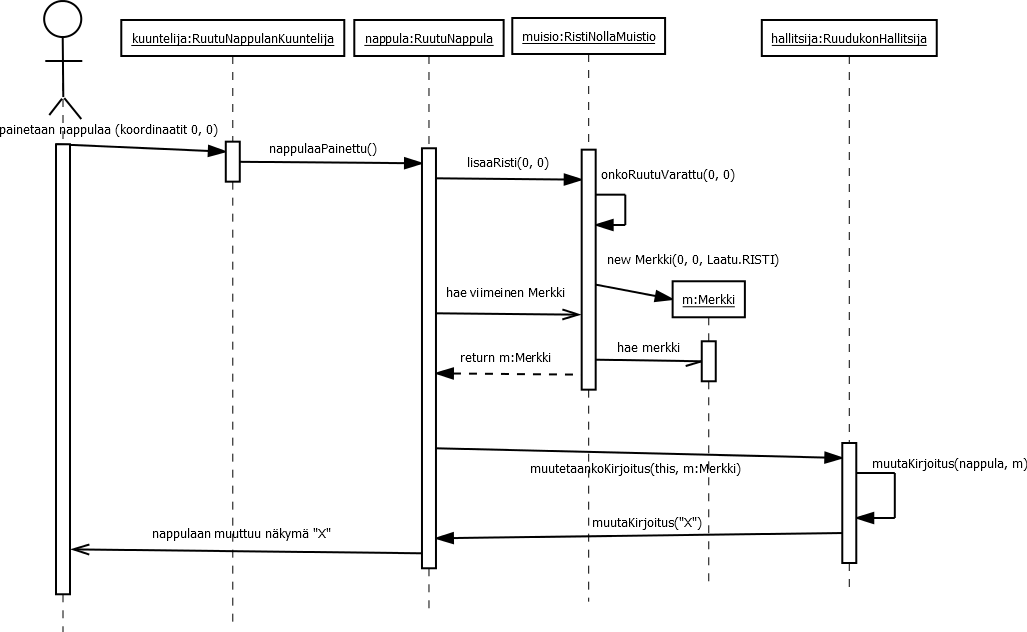
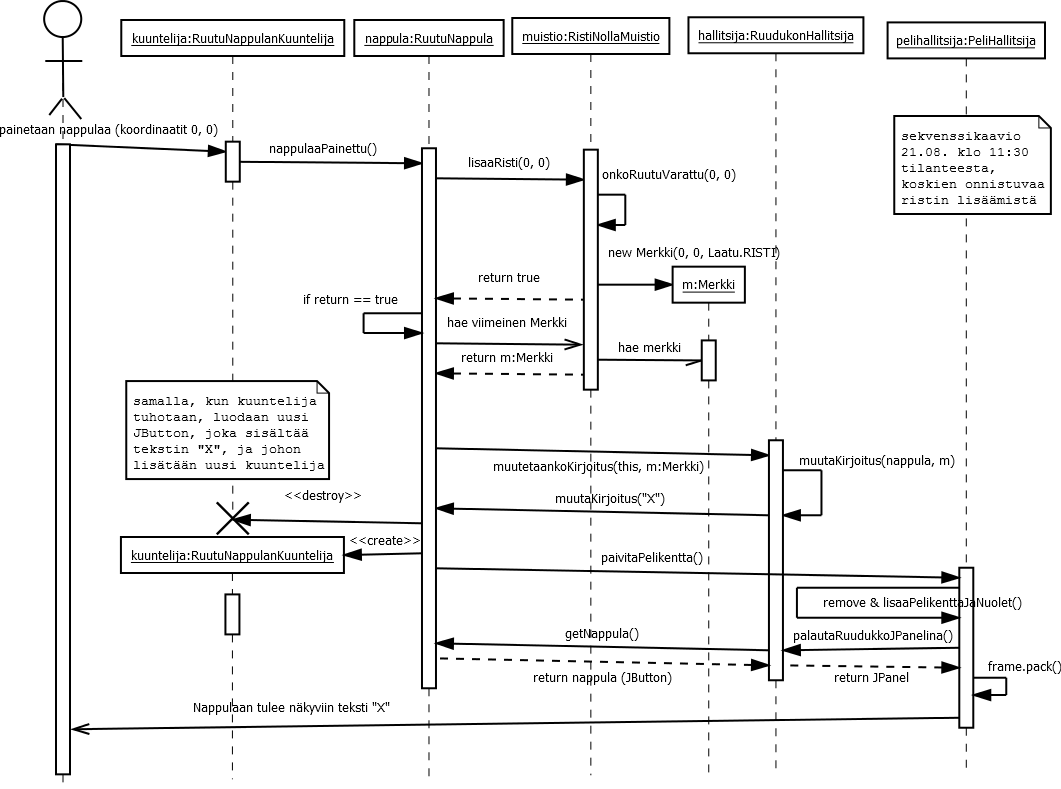
sekvenssikaavioita ja niiden inspiroimana viilausta

Changed region(s): [[0.0, 0.0, 1.0, 0.9921], [0.8413, 0.1203, 0.9971, 0.3006], [0.4362, 0.3307, 0.4985, 0.3608]]

diff --git a/Viidensuora/src/kayttoliittymat/GraafinenKayttoliittyma.java b/Viidensuora/src/kayttoliittymat/GraafinenKayttoliittyma.java
@@ -4,17 +4,6 @@
  */
 package kayttoliittymat;
 
-import kayttoliittymat.kuuntelijat.tilastot.ValikkoonNappulanKuuntelija;
-import kayttoliittymat.kuuntelijat.tilastot.JarjestaTunnusNappulanKuuntelija;
-import kayttoliittymat.kuuntelijat.tilastot.NaytaTunnuksetNappulanKuuntelija;
-import kayttoliittymat.kuuntelijat.tilastot.TunnusTilastoKategoriat;
-import kayttoliittymat.kuuntelijat.tilastot.NaytaTunnusparitNappulanKuuntelija;
-import kayttoliittymat.kuuntelijat.tilastot.YlosNappulanKuuntelija;
-import kayttoliittymat.kuuntelijat.tilastot.AlasNappulanKuuntelija;
-import kayttoliittymat.kuuntelijat.valikko.TunnusNappulanKuuntelija;
-import kayttoliittymat.kuuntelijat.valikko.TilastoNappulanKuuntelija;
-import kayttoliittymat.kuuntelijat.valikko.LopetaNappulanKuuntelija;
-import kayttoliittymat.kuuntelijat.valikko.PikapeliNappulanKuuntelija;
 import java.awt.BorderLayout;
 import java.awt.Container;
 import java.awt.Dimension;
@@ -27,6 +16,17 @@ import javax.swing.JLabel;
 import javax.swing.JOptionPane;
 import javax.swing.JPanel;
 import javax.swing.WindowConstants;
+import kayttoliittymat.kuuntelijat.tilastot.AlasNappulanKuuntelija;
+import kayttoliittymat.kuuntelijat.tilastot.JarjestaTunnusNappulanKuuntelija;
+import kayttoliittymat.kuuntelijat.tilastot.NaytaTunnuksetNappulanKuuntelija;
+import kayttoliittymat.kuuntelijat.tilastot.NaytaTunnusparitNappulanKuuntelija;
+import kayttoliittymat.kuuntelijat.tilastot.TunnusTilastoKategoriat;
+import kayttoliittymat.kuuntelijat.tilastot.ValikkoonNappulanKuuntelija;
+import kayttoliittymat.kuuntelijat.tilastot.YlosNappulanKuuntelija;
+import kayttoliittymat.kuuntelijat.valikko.LopetaNappulanKuuntelija;
+import kayttoliittymat.kuuntelijat.valikko.PikapeliNappulanKuuntelija;
+import kayttoliittymat.kuuntelijat.valikko.TilastoNappulanKuuntelija;
+import kayttoliittymat.kuuntelijat.valikko.TunnusNappulanKuuntelija;
 import kayttoliittymat.peliGraafisetToimijat.PeliHallitsija;
 import tiedostojenKasittely.VirheidenKasittelijaGraafinen;
 import tilastotJaTunnukset.Tunnus;
@@ -260,7 +260,7 @@ public class GraafinenKayttoliittyma extends Kayttoliittyma implements Runnable 
     public void menePikapeliin() {
         frame.getContentPane().removeAll();
         frame.repaint();
-        PeliHallitsija hallitsija = new PeliHallitsija(super.muistio, this.frame);
+        PeliHallitsija hallitsija = new PeliHallitsija(super.muistio, this.frame, this);
         frame.getContentPane().setLayout(new BorderLayout());
         frame.getContentPane().add(hallitsija.kaynistaPeli());
         frame.pack();

diff --git a/Viidensuora/src/kayttoliittymat/peliGraafisetToimijat/PeliHallitsija.java b/Viidensuora/src/kayttoliittymat/peliGraafisetToimijat/PeliHallitsija.java
@@ -4,15 +4,16 @@
  */
 package kayttoliittymat.peliGraafisetToimijat;
 
-import javax.swing.JFrame;
-import java.awt.GridLayout;
 import java.awt.BorderLayout;
+import java.awt.GridLayout;
 import javax.swing.JButton;
+import javax.swing.JFrame;
 import javax.swing.JOptionPane;
 import javax.swing.JPanel;
 import kayttoliittymat.kuuntelijat.peli.VuoronvaihtoNappulanKuuntelija;
 import tilastotJaTunnukset.*;
 import viidensuora.RistiNollaMuistio;
+import kayttoliittymat.Kayttoliittyma;
 
 /**
  * Jottei kaikki koodi olisi kayttoliittymassa
@@ -25,21 +26,23 @@ public class PeliHallitsija {
     private Tunnus ristiPelaaja;
     private RistiNollaMuistio muistio;
     private JFrame frame;
+    private Kayttoliittyma liittyma;
     /**
      * Alustetaan ruudukko, tunnuspari ja JPanel.
      * @param pari
      * @param muistio 
      */
-    public PeliHallitsija(TunnusPari pari, RistiNollaMuistio muistio, JFrame frame) {
+    public PeliHallitsija(TunnusPari pari, RistiNollaMuistio muistio, JFrame frame, Kayttoliittyma liittyma) {
         this.pari = pari;
         this.muistio = muistio;
         ruudukko = new RuudukonHallitsija(muistio, this);
         naytto = new JPanel(new BorderLayout());
         this.frame = frame;
+        this.liittyma = liittyma;
     }
     
-    public PeliHallitsija(RistiNollaMuistio muistio, JFrame frame) {
-        this(null, muistio, frame);
+    public PeliHallitsija(RistiNollaMuistio muistio, JFrame frame, Kayttoliittyma liittyma) {
+        this(null, muistio, frame, liittyma);
     }
     
     private void kysyRistiPelaaja() {
@@ -81,6 +84,20 @@ public class PeliHallitsija {
         this.naytto.remove(this.naytto.getComponent(1));
         this.naytto.add(lisaaPelikenttaJaNuolet());
         this.frame.pack();
+    }
+    
+    public void paivitaKenttaJaTarkistaVoitto() {
+        this.paivitaPelikentta();
+        boolean voitto = this.liittyma.tarkistaVoitto();
+        if (voitto) {
+            String merkki;
+            if (muistio.getEdellinenMerkkiRisti()) {
+                merkki = "ristilla pelannut";
+            } else {
+                merkki = "nollalla pelannut";
+            }
+            JOptionPane.showMessageDialog(frame, "Peli paattyi, onnittelut " + merkki);
+        }
     }
     
     private JPanel lisaaNappulat() {

diff --git a/Viidensuora/src/kayttoliittymat/peliGraafisetToimijat/RuutuNappula.java b/Viidensuora/src/kayttoliittymat/peliGraafisetToimijat/RuutuNappula.java
@@ -21,7 +21,6 @@ public class RuutuNappula {
     private Laatu seuraavaLaatu;
     private RistiNollaMuistio muistio;
     private JButton nappula;
-    private RuudukonHallitsija hallitsija;
     private PeliHallitsija pelihallitsija;
     /**
      * Konstruktori, alustetaan oliomuuttujat
@@ -30,14 +29,13 @@ public class RuutuNappula {
      * @param muistio RistiNollaMuistio, johon nappula yrittää listä merkkiä
      * sitä paintettaessa
      */
-    public RuutuNappula(int x, int y, RistiNollaMuistio muistio, RuudukonHallitsija hallitsija, PeliHallitsija pelihallitsija) {
+    public RuutuNappula(int x, int y, RistiNollaMuistio muistio, PeliHallitsija pelihallitsija) {
         this.x = x;
         this.y = y;
         this.seuraavaLaatu = Laatu.RISTI;
         this.muistio = muistio;
         this.nappula = new JButton();
-        this.nappula.addActionListener(new RuutuNappulanKuuntelija(this, pelihallitsija));
-        this.hallitsija = hallitsija;
+        this.nappula.addActionListener(new RuutuNappulanKuuntelija(this));
         this.pelihallitsija = pelihallitsija;
     }
     /**
@@ -70,7 +68,7 @@ public class RuutuNappula {
      */
     public void muutaKirjoitus(String kirjoitus) {
         this.nappula = new JButton(kirjoitus);
-        this.nappula.addActionListener(new RuutuNappulanKuuntelija(this, pelihallitsija));
+        this.nappula.addActionListener(new RuutuNappulanKuuntelija(this));
     }
     
     public JButton getNappula() {
@@ -78,12 +76,20 @@ public class RuutuNappula {
     }
     
     void nappulaaPainettu() {
+        boolean lisattiin;
         if (seuraavaLaatu.equals(Laatu.RISTI)) {
-            muistio.lisaaRisti(getX(), getY());
+            lisattiin = muistio.lisaaRisti(getX(), getY());
         } else {
-            muistio.lisaaNolla(getX(), getY());
+            lisattiin = muistio.lisaaNolla(getX(), getY());
         }
-        hallitsija.muutetaankoKirjoitus(this, muistio.getMerkit().get(muistio.getMerkit().size()-1));
+        if (lisattiin) {
+            if (seuraavaLaatu.equals(Laatu.RISTI)) {
+                muutaKirjoitus("X");
+            } else {
+                muutaKirjoitus("O");
+            }
+            pelihallitsija.paivitaKenttaJaTarkistaVoitto();
+        }
     }
 
     /**

diff --git a/Viidensuora/src/viidensuora/RistiNollaMuistio.java b/Viidensuora/src/viidensuora/RistiNollaMuistio.java
@@ -24,14 +24,17 @@ public class RistiNollaMuistio {
     }
     /**
      * Lisää ristin muistioon, mikäli on ristin vuoro, ja ruutu ei ole varattu
-     * @param x syötettävän merkin x-koordinaatti
-     * @param y syötettävän merkin y-koordinaatti
+     * @param x
+     * @param y
+     * @return true jos lisääminen onnituis, false jos epäonnistui
      */
-    public void lisaaRisti(int x, int y) {
+    public boolean lisaaRisti(int x, int y) {
         if (!edellinenMerkkiRisti && !onkoRuutuVarattu(x, y)) {
             merkit.add(new Merkki(x, y, Laatu.RISTI));
             edellinenMerkkiRisti = true;
+            return true;
         }
+        return false;
     }
     
     private boolean onkoRuutuVarattu(int x, int y) {
@@ -44,14 +47,17 @@ public class RistiNollaMuistio {
     }
     /**
      * Lisää nollan muistioon, mikäli on nollan vuoro, ja ruutu ei ole varattu
-     * @param x syötettävän merkin x-koordinaatti
-     * @param y syötettävän merkin y-koordinaatti
+     * @param x
+     * @param y
+     * @return true jos nollan lisääminen onnistui, false jos epäonnistui
      */
-    public void lisaaNolla(int x, int y) {
+    public boolean lisaaNolla(int x, int y) {
         if (edellinenMerkkiRisti && !onkoRuutuVarattu(x, y)) {
             merkit.add(new Merkki(x, y, Laatu.NOLLA));
             edellinenMerkkiRisti = false;
+            return true;
         }
+        return false;
     }
     /**
      * Laskee ristien määrän private metodilla merkkienMaara(Laatu laatu)
@@ -99,8 +105,9 @@ public class RistiNollaMuistio {
     }
     /**
      * Ainut tapa muokata merkit -listan sisältöä, on perua viimeinen siirto
+     * @return true jos peruminen onnistui, false jos merkkejä ei ollut
      */
-    public void peruSiirto() {
+    public boolean peruSiirto() {
         if (!this.merkit.isEmpty()) {
             this.merkit.remove(this.merkit.size()-1);
             if (this.edellinenMerkkiRisti) {
@@ -108,6 +115,8 @@ public class RistiNollaMuistio {
             } else {
                 this.edellinenMerkkiRisti = true;
             }
+            return true;
         }
+        return false;
     }
 }

diff --git a/Viidensuora/src/kayttoliittymat/peliGraafisetToimijat/RuutuNappulanKuuntelija.java b/Viidensuora/src/kayttoliittymat/peliGraafisetToimijat/RuutuNappulanKuuntelija.java
@@ -14,14 +14,12 @@ import java.awt.event.ActionListener;
  */
 public class RuutuNappulanKuuntelija implements ActionListener {
     private RuutuNappula ruutu;
-    private PeliHallitsija hallitsija;
     /**
      * Konstruktorissa asetetaan kuuntelijan sitältämään RuutuNappulaan käyttäjän syöte
      * @param ruutu käyttäjän syöttämä RuutuNappula, joka tallennetaan kuuntelijan sisään
      */
-    public RuutuNappulanKuuntelija(RuutuNappula ruutu, PeliHallitsija hallitsija) {
+    public RuutuNappulanKuuntelija(RuutuNappula ruutu) {
         this.ruutu = ruutu;
-        this.hallitsija = hallitsija;
     }
     /**
      * Kuuntelija saa signaalin, kun nappulaa, jonka sisällä se on painetaan
@@ -31,7 +29,6 @@ public class RuutuNappulanKuuntelija implements ActionListener {
     @Override
     public void actionPerformed(ActionEvent ae) {
         this.ruutu.nappulaaPainettu();
-        this.hallitsija.paivitaPelikentta();
     }
     
 }

diff --git a/Viidensuora/src/kayttoliittymat/Kayttoliittyma.java b/Viidensuora/src/kayttoliittymat/Kayttoliittyma.java
@@ -68,16 +68,14 @@ public class Kayttoliittyma {
         
     }
     
-    protected boolean tarkistaVoitto() {
+    public boolean tarkistaVoitto() {
         if (muistio.getEdellinenMerkkiRisti()) {
             if (this.loytaja.tarkastaViimeinen(muistio.getMerkit(), viisiRistia)) {
-                System.out.println("Risti voitti");
                 tilastot.peliPelattu(muistio.nollienMaara(), Laatu.RISTI);
                 return true;
             }
         } else {
             if (this.loytaja.tarkastaViimeinen(muistio.getMerkit(), viisiNollaa)) {
-                System.out.println("Nolla voitti");
                 tilastot.peliPelattu(muistio.nollienMaara(), Laatu.NOLLA);
                 return true;
             }

diff --git a/Viidensuora/src/kayttoliittymat/peliGraafisetToimijat/RuudukonHallitsija.java b/Viidensuora/src/kayttoliittymat/peliGraafisetToimijat/RuudukonHallitsija.java
@@ -36,7 +36,7 @@ public class RuudukonHallitsija {
         for (int y = 0; y < 15; y++) {
             ArrayList<RuutuNappula> riviNappuloita = new ArrayList<RuutuNappula>();
             for (int x = 0; x < 15; x++) {
-                riviNappuloita.add(new RuutuNappula(x, y, muistio, this, pelihallitsija));
+                riviNappuloita.add(new RuutuNappula(x, y, muistio, pelihallitsija));
             }
             this.ruudukko.add(riviNappuloita);
         }
